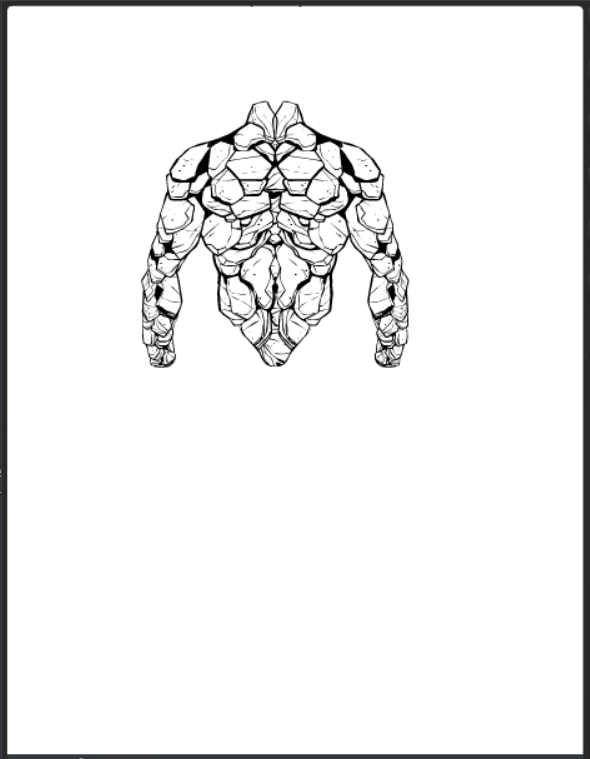
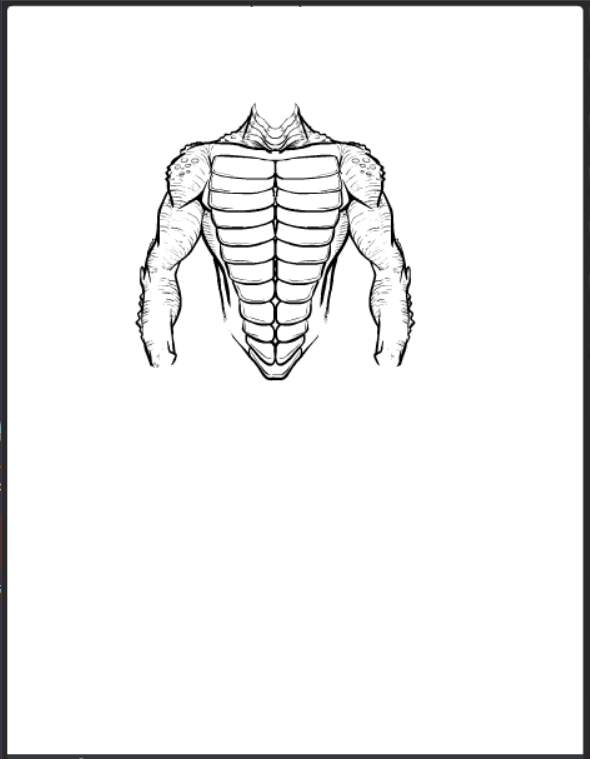
fix: redesigned scales

Changed region(s): [[0.2136, 0.1212, 0.7017, 0.5152]]

diff --git a/src/components/InventoryScreen.tsx b/src/components/InventoryScreen.tsx
@@ -53,9 +53,7 @@ function InventoryScreen() {
                                     inventory.skin.name === cybers.cyber_nanoMatrix.name ?
                                         <img src={images.bodyElements.nanoMatrixLegs} alt='nanoMatrixLegs'/> :
                                         inventory.skin.name === cybers.cyber_nanoVest.name ?
-                                            <img src={images.bodyElements.nanoVestLegs} alt='nanoVestLegs'/> :
-                                            inventory.skin.name === mutations.mutation_scales.name ?
-                                                <img src={images.bodyElements.scalesLegs} alt='scalesLegs'/> : null
+                                            <img src={images.bodyElements.nanoVestLegs} alt='nanoVestLegs'/> : null
                                 ]                                
                         }
                         {
@@ -152,7 +150,9 @@ function InventoryScreen() {
                         }
                         {
                             inventory.chin.name === mutations.mutation_acidSplit.name ?
-                                <img src={images.bodyElements.acidSplit} alt='acidSplit'/> : null
+                                <img src={images.bodyElements.acidSplit} alt='acidSplit'/> :
+                                inventory.chin.name === mutations.mutation_lowerFangs.name ? 
+                                    <img src={images.bodyElements.lowerFangs} alt='lowerFangs'/> : null
                         }
                         {
                             powersUserNames.includes(powers.power_intuition.name) ?

diff --git a/src/images/bodyElements/bodyElements.js b/src/images/bodyElements/bodyElements.js
@@ -20,6 +20,7 @@ import leatherArmor from './leatherArmor.png';
 import leftHand from './leftHand.png';
 import legs from './legs.png';
 import levitation from './levitation.png';
+import lowerFangs from './lowerFangs.png';
 import magisterHat from './magisterHat.png';
 import magisterRobe from './magisterRobe.png';
 import magisterScepter from './magisterScepter.png';
@@ -37,7 +38,6 @@ import reactiveFeet from './reactiveFeet.png';
 import rightHand from './rightHand.png';
 import rocket from './rocket.png';
 import runicGreatsword from './runicGreatsword.png';
-import scalesLegs from './scalesLegs.png';
 import scalesTorso from './scalesTorso.png';
 import steelArmor from './steelArmor.png';
 import steelGreataxe from './steelGreataxe.png';
@@ -72,6 +72,7 @@ const bodyElements = {
     leftHand,
     legs,
     levitation,
+    lowerFangs,
     magisterHat,
     magisterRobe,
     magisterScepter,
@@ -89,7 +90,6 @@ const bodyElements = {
     rightHand,
     rocket,
     runicGreatsword,
-    scalesLegs,
     scalesTorso,
     steelArmor,
     steelGreataxe,

diff --git a/src/general/mutations/mutations.ts b/src/general/mutations/mutations.ts
@@ -8,6 +8,15 @@ const mutation_acidSplit: IMutation = {
     inventoryPlace: InventoryPlaces.chin,
     cost: 1,
     image: images.mutantEvolvings.acidSplit,
+    priority: 2
+}
+
+const mutation_lowerFangs: IMutation = {
+    name: 'Lower fangs',
+    description: 'Mutation to turn your chin to a cutting machine',
+    inventoryPlace: InventoryPlaces.chin,
+    cost: 1,
+    image: images.mutantEvolvings.lowerFangs,
     priority: 1
 }
 
@@ -94,6 +103,7 @@ const mutation_hooves: IMutation = {
 
 const mutations = {
     mutation_acidSplit,
+    mutation_lowerFangs,
     mutation_claws,
     mutation_clawLeft,
     mutation_clawRight,

diff --git a/background/contextMenus.ts b/background/contextMenus.ts
@@ -45,9 +45,9 @@ function contextMenusListeners(info: IContextMenuInfo, tab?: ITab) {
             if (tab?.url?.endsWith('index.html#/game')) {
                 chrome.storage.local.get().then(result => {
                     const params = {...result['tech-dungeon-game'].userParams};
-                    params.diamonds = 10;
+                    params.gems = 10;
                     params.mechaCores = 10;
-                    params.mutaGenes = 10;
+                    params.mutaGenes = 9;
                     params.level = 20;
                     result['tech-dungeon-game'].userParams = params;
 

diff --git a/src/images/mutantEvolvings/mutantEvolvings.js b/src/images/mutantEvolvings/mutantEvolvings.js
@@ -6,6 +6,7 @@ import scales from './scales.png';
 import acidSplit from './acidSplit.png';
 import twoExtraPincers from './twoExtraPincers.png';
 import hooves from './hooves.png';
+import lowerFangs from './lowerFangs.png';
 
 const mutantEvolvings = {
     claws,
@@ -15,7 +16,8 @@ const mutantEvolvings = {
     scales,
     acidSplit,
     twoExtraPincers,
-    hooves
+    hooves,
+    lowerFangs
 };
 
 export default mutantEvolvings;
